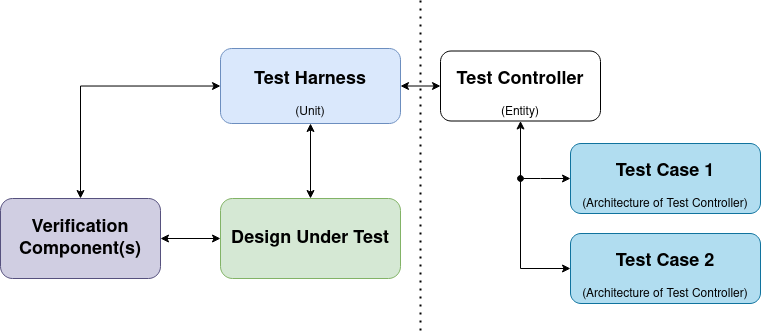
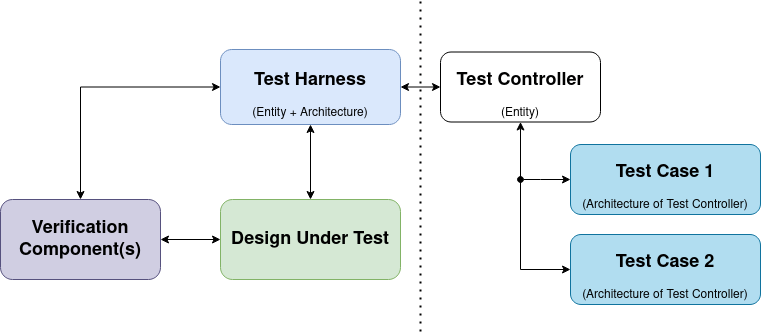
Update test controller

diff --git a/_posts/2021-04-02-vhdl-design-patterns-test-controller.md b/_posts/2021-04-02-vhdl-design-patterns-test-controller.md
@@ -14,7 +14,7 @@ Chapter 5 of [OSVVM's Test Writer's User Guide](https://github.com/OSVVM/Documen
 
 {% include toc.html %}
 
-This setup is entirely overkill for simple designs, but perhaps appropriate for board- or system-level testbenches i.e. testbenches going beyond the Affirm/Check/Asserts of self checking testbenches and into testbenches that can get up to tens of thousands of lines and are checking the integration of several components for example.
+This setup is entirely overkill for simple designs, but perhaps appropriate for board- or system-level testbenches i.e. testbenches going beyond the Affirm/Check/Asserts of self checking testbenches but rather testbenches that can get up to tens of thousands of lines and are checking the integration of several components for example.
 
 The architecture of testbenches tends towards something like the following image:
 
@@ -26,8 +26,6 @@ The architecture of testbenches tends towards something like the following image
   description="Classic testbench"
 %}
 {% assign figure_num = figure_num | plus: 1 %}
-
-Here I've used 'Unit' to describe the combination of an Entity and Architecture, there are probably more correct terms out there (module?).
 
 With OSVVM's approach of using a Test Controller to separate the test harness and the test cases we get a clear interface to the design under test (DUT).
 
@@ -138,37 +136,54 @@ The test case file is where the manual labor stops and you need to start thinkin
 %}
 {% assign listing_num = listing_num | plus: 1 %}
 
-### Running
-
-I've used VUnit's `add_osvvm` method to get the library. I could just as well have added the library as a separate library to `lib` in the python script.
-
 {%
-  include python_code_snippet.html
+  include vhdl_code_snippet.html
   listing_num=listing_num
-  description="Example VUnit run script"
-  dir="includes/vhdl-design-patterns-test-controller/"
-  file="run.py"
+  description="Example test case"
+  dir="includes/vhdl-design-patterns-test-controller/half_adder/"
+  file="test_case_2.vhd"
 %}
 {% assign listing_num = listing_num | plus: 1 %}
 
-The output is:
+### Running
+
+OSVVM provides scripts to run testbenches. Follow their documentation at [github](https://github.com/OSVVM/Documentation/blob/master/Script_user_guide.pdf).
+
+`tclsh` will open the tcl shell. Running `source Scripts/StartUp.tcl` from within the [OsvvmLibraries repository](https://github.com/OSVVM/OsvvmLibraries) will set up an environment for running testbenches.
+
+Create a `sim` directory and `cd` into it. Build the osvvm core library with `build ../osvvm/osvvm.pro`. Then `cd` into a directory containing the example and run `build half_adder`.
+This will run the `half_adder.pro` file shown in the listing {{ listing_num | plus: 1 }}:
 
 {%
   include code_snippet.html
   listing_num=listing_num
-  description="Output from running VUnit"
-  dir="includes/vhdl-design-patterns-test-controller/"
-  file="run.txt"
+  description="OSVVM Project File"
+  dir="includes/vhdl-design-patterns-test-controller/half_adder/"
+  file="half_adder.pro"
 %}
 {% assign listing_num = listing_num | plus: 1 %}
 
-OSVVM's output is on lines 9 and 10 above, showing that there was an alert at 4 ns and that there was one error.
+Running `half_adder.pro` will result in
+
+{%
+  include code_snippet.html
+  listing_num=listing_num
+  description="Example test case"
+  dir="includes/vhdl-design-patterns-test-controller/half_adder/logs/GHDL-1.0.0/"
+  file="vhdl-design-patterns-test-controller_half_adder.log"
+%}
+{% assign listing_num = listing_num | plus: 1 %}
+
+OSVVM's output is on lines 7, 10 and 11 above, showing that there was an alert at 2 ns and that there was one error in the second test case.
 
 ## Conclusion
 
 This approach is not entirely dependent on OSVVM, it is a design pattern. But OSVVM pushes this design pattern and their synchronization methods make the implementation a lot easier than implementing these yourself. The design pattern itself is a clever way to get around either copy-pasting a lot of setup code for different tests of the same integration, or keeping the setup and all of the test cases in a single, _enormous_, file.
 
 ## Change Log
+
+### 2021-09-13
+Finally got around to fixing this post, which originally showed a non working VUnit run script since [VUnit does not support configurations](https://github.com/VUnit/vunit/issues/179).
 
 ### 2021-04-08
 I've updated the VUnit run-script to align with VUnit's [Distributed Testbenches](https://vunit.github.io/run/user_guide.html#distributed-testbenches) example instead of hacking around with attributes.
